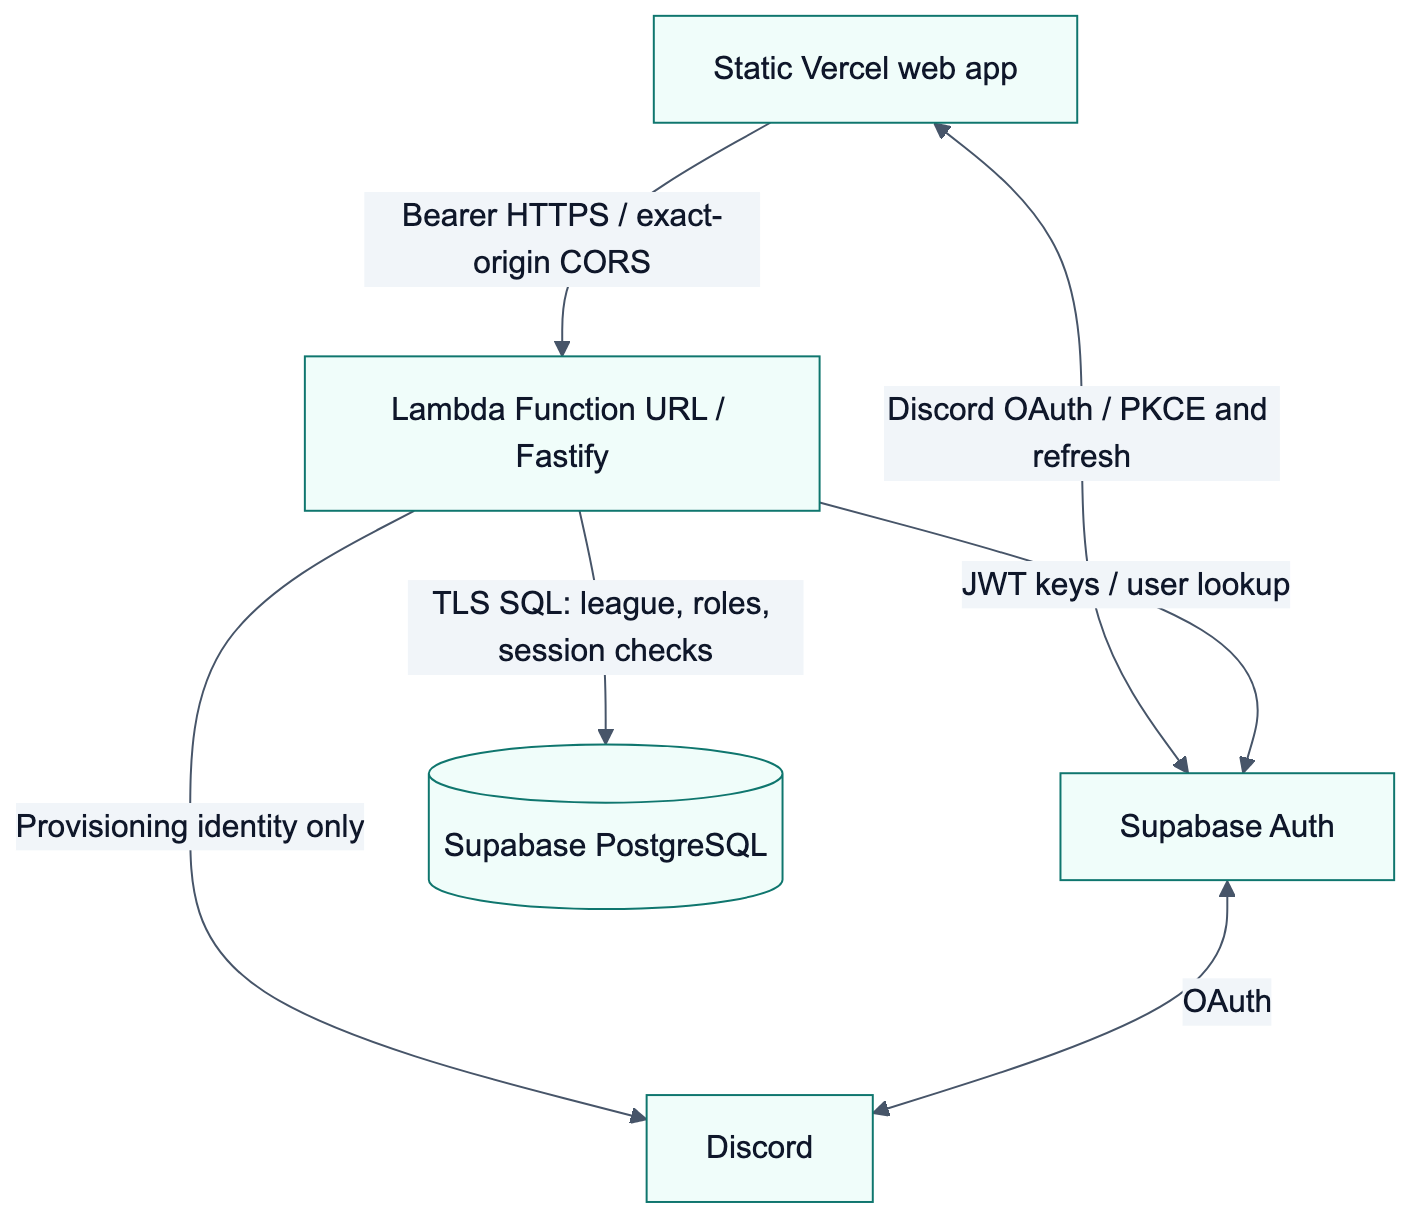
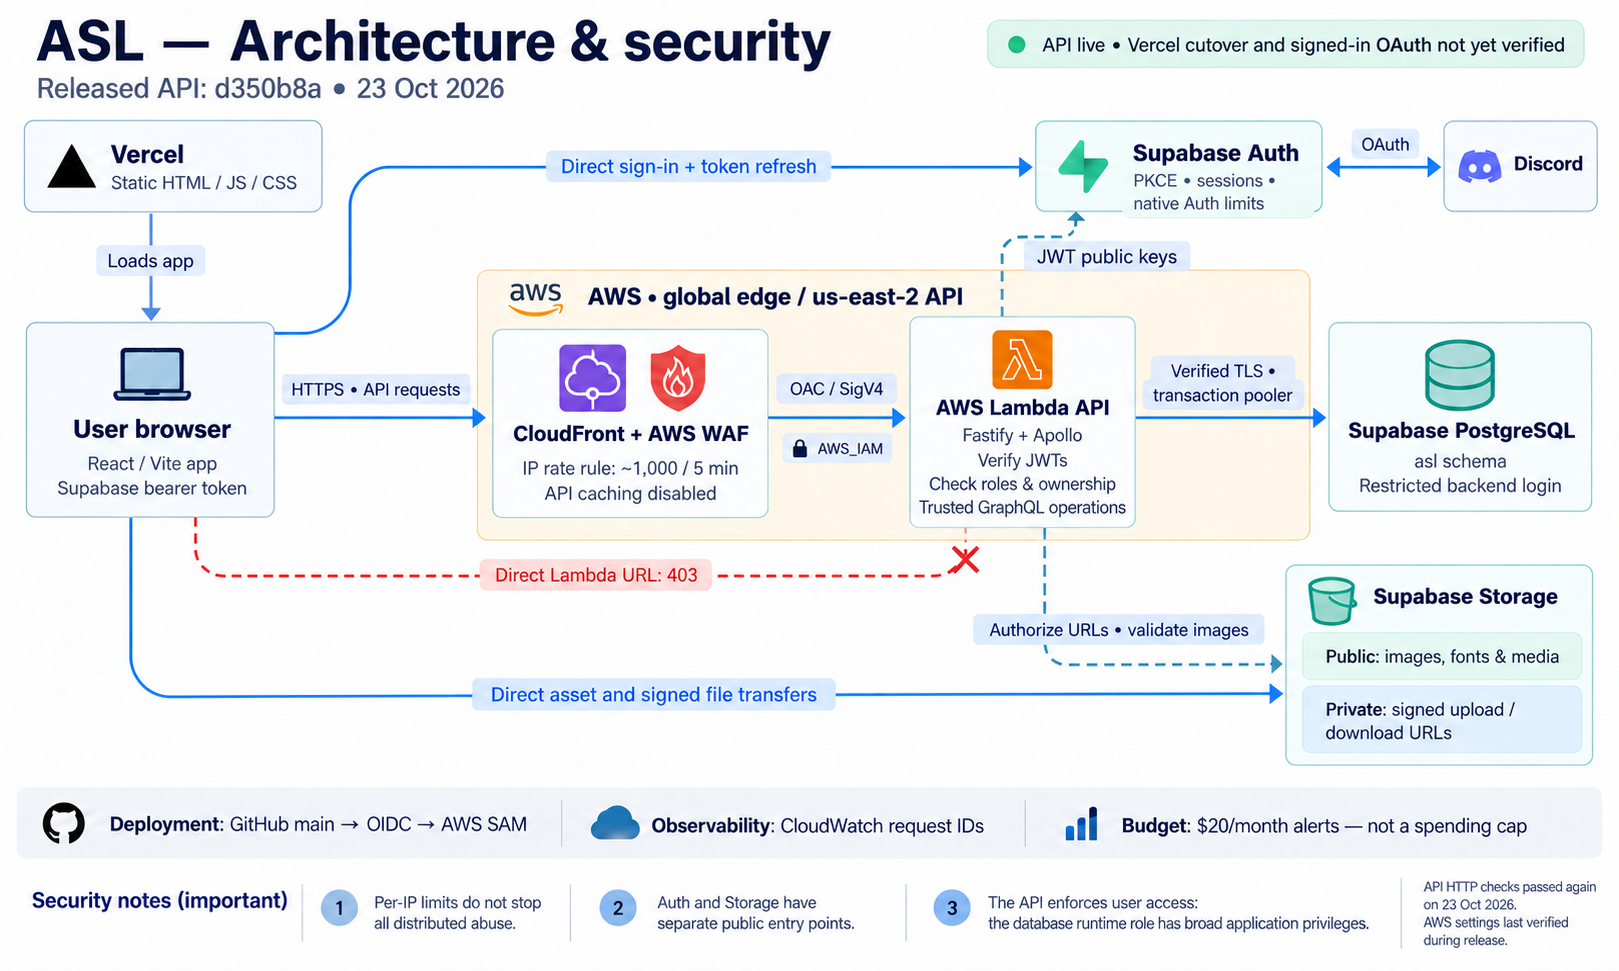
docs: update architecture and AGENTS.md guidance (#32)
* docs: update architecture, schema references, and agent guidance

* docs: exclude schema and refactor reports from PR

diff --git a/README.md b/README.md
@@ -36,9 +36,9 @@ NAPL is a league application built with React and a Fastify API running on AWS L
 
 ## System Architecture
 
-![Direct browser Lambda and Supabase architecture](docs/system-architecture.png)
+![Browser, CloudFront, Lambda and Supabase architecture](docs/system-architecture.png)
 
-Vercel serves static assets. The browser calls the Lambda URL directly with Supabase access tokens; Lambda owns authorization and league operations. Supabase Auth owns browser sessions and refresh. [Runtime](api/plugins/runtime.ts), [request checks](api/app.ts), and [browser auth](web/src/auth/session.ts) implement these boundaries.
+Vercel serves the static app; browser API requests pass through CloudFront and AWS WAF to Lambda using origin access control (OAC). Lambda verifies Supabase access tokens and enforces authorization and league operations, while Supabase Auth manages browser sessions and refresh. Public assets and signed file transfers connect directly to Supabase Storage; [runtime](api/plugins/runtime.ts), [request checks](api/app.ts), and [browser auth](web/src/auth/session.ts) implement these boundaries.
 
 ## Sequence Diagrams
 

diff --git a/AGENTS.md b/AGENTS.md
@@ -48,7 +48,7 @@ Radical-simplicity coding guidelines distilled from George Hotz's public philoso
 
 ## Refactoring evidence and structure changes
 
-- Before deleting code, read its definitions and callers and record the evidence that it is unused.
+- Before deleting code, read its definitions and callers and record the evidence that it is unused or that it can be simplified or the logic can be condensed/simplified by deleting/pruning existing code.
 - Use dependency-cruiser to check dependency boundary rules.
 - Work in small batches and run typecheck/tests after each batch. Separate architecture changes from cleanup; record the current behavior, structural change, and smallest parity check for each pass.
 - For an identical edit across more than two files, use a tested codemod.
